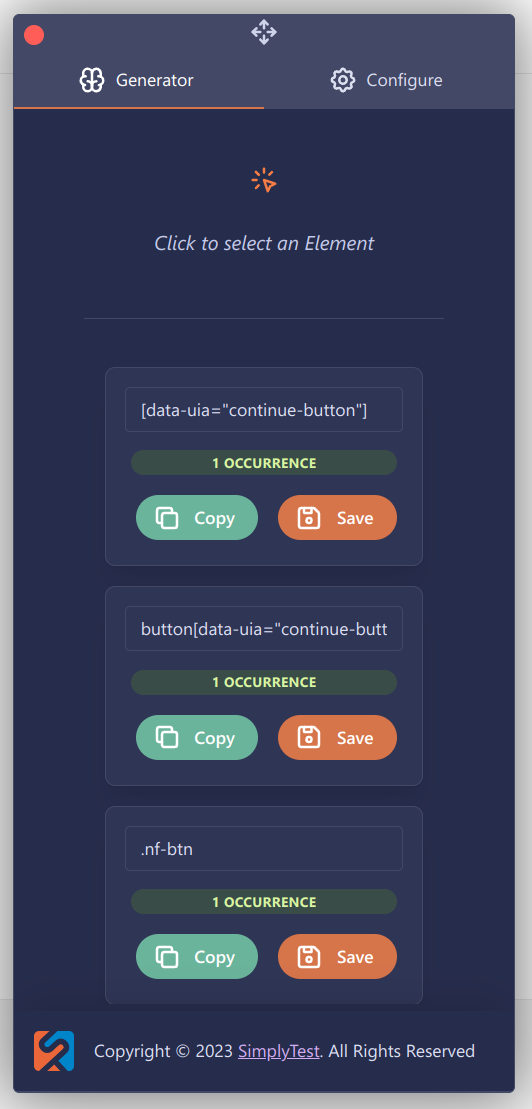
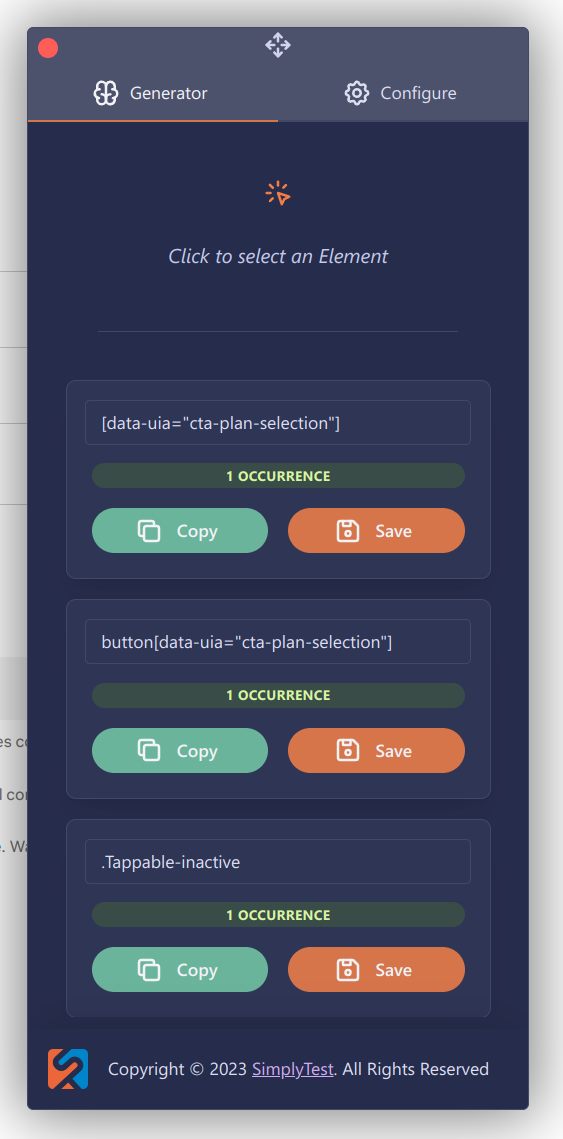
docs(readme): update features & screenshots

diff --git a/README.md b/README.md
@@ -12,6 +12,8 @@ STargazer is a chrome extension that can generate selectors for a given element.
 
 * 🧠 <kbd>XPath</kbd> and <kbd>CSS</kbd> supported
 
+* 🔃 Sync with Dev-Tools inspected Element
+
 * 📚 Save Selectors
   * 🖼 With Preview Image
 
